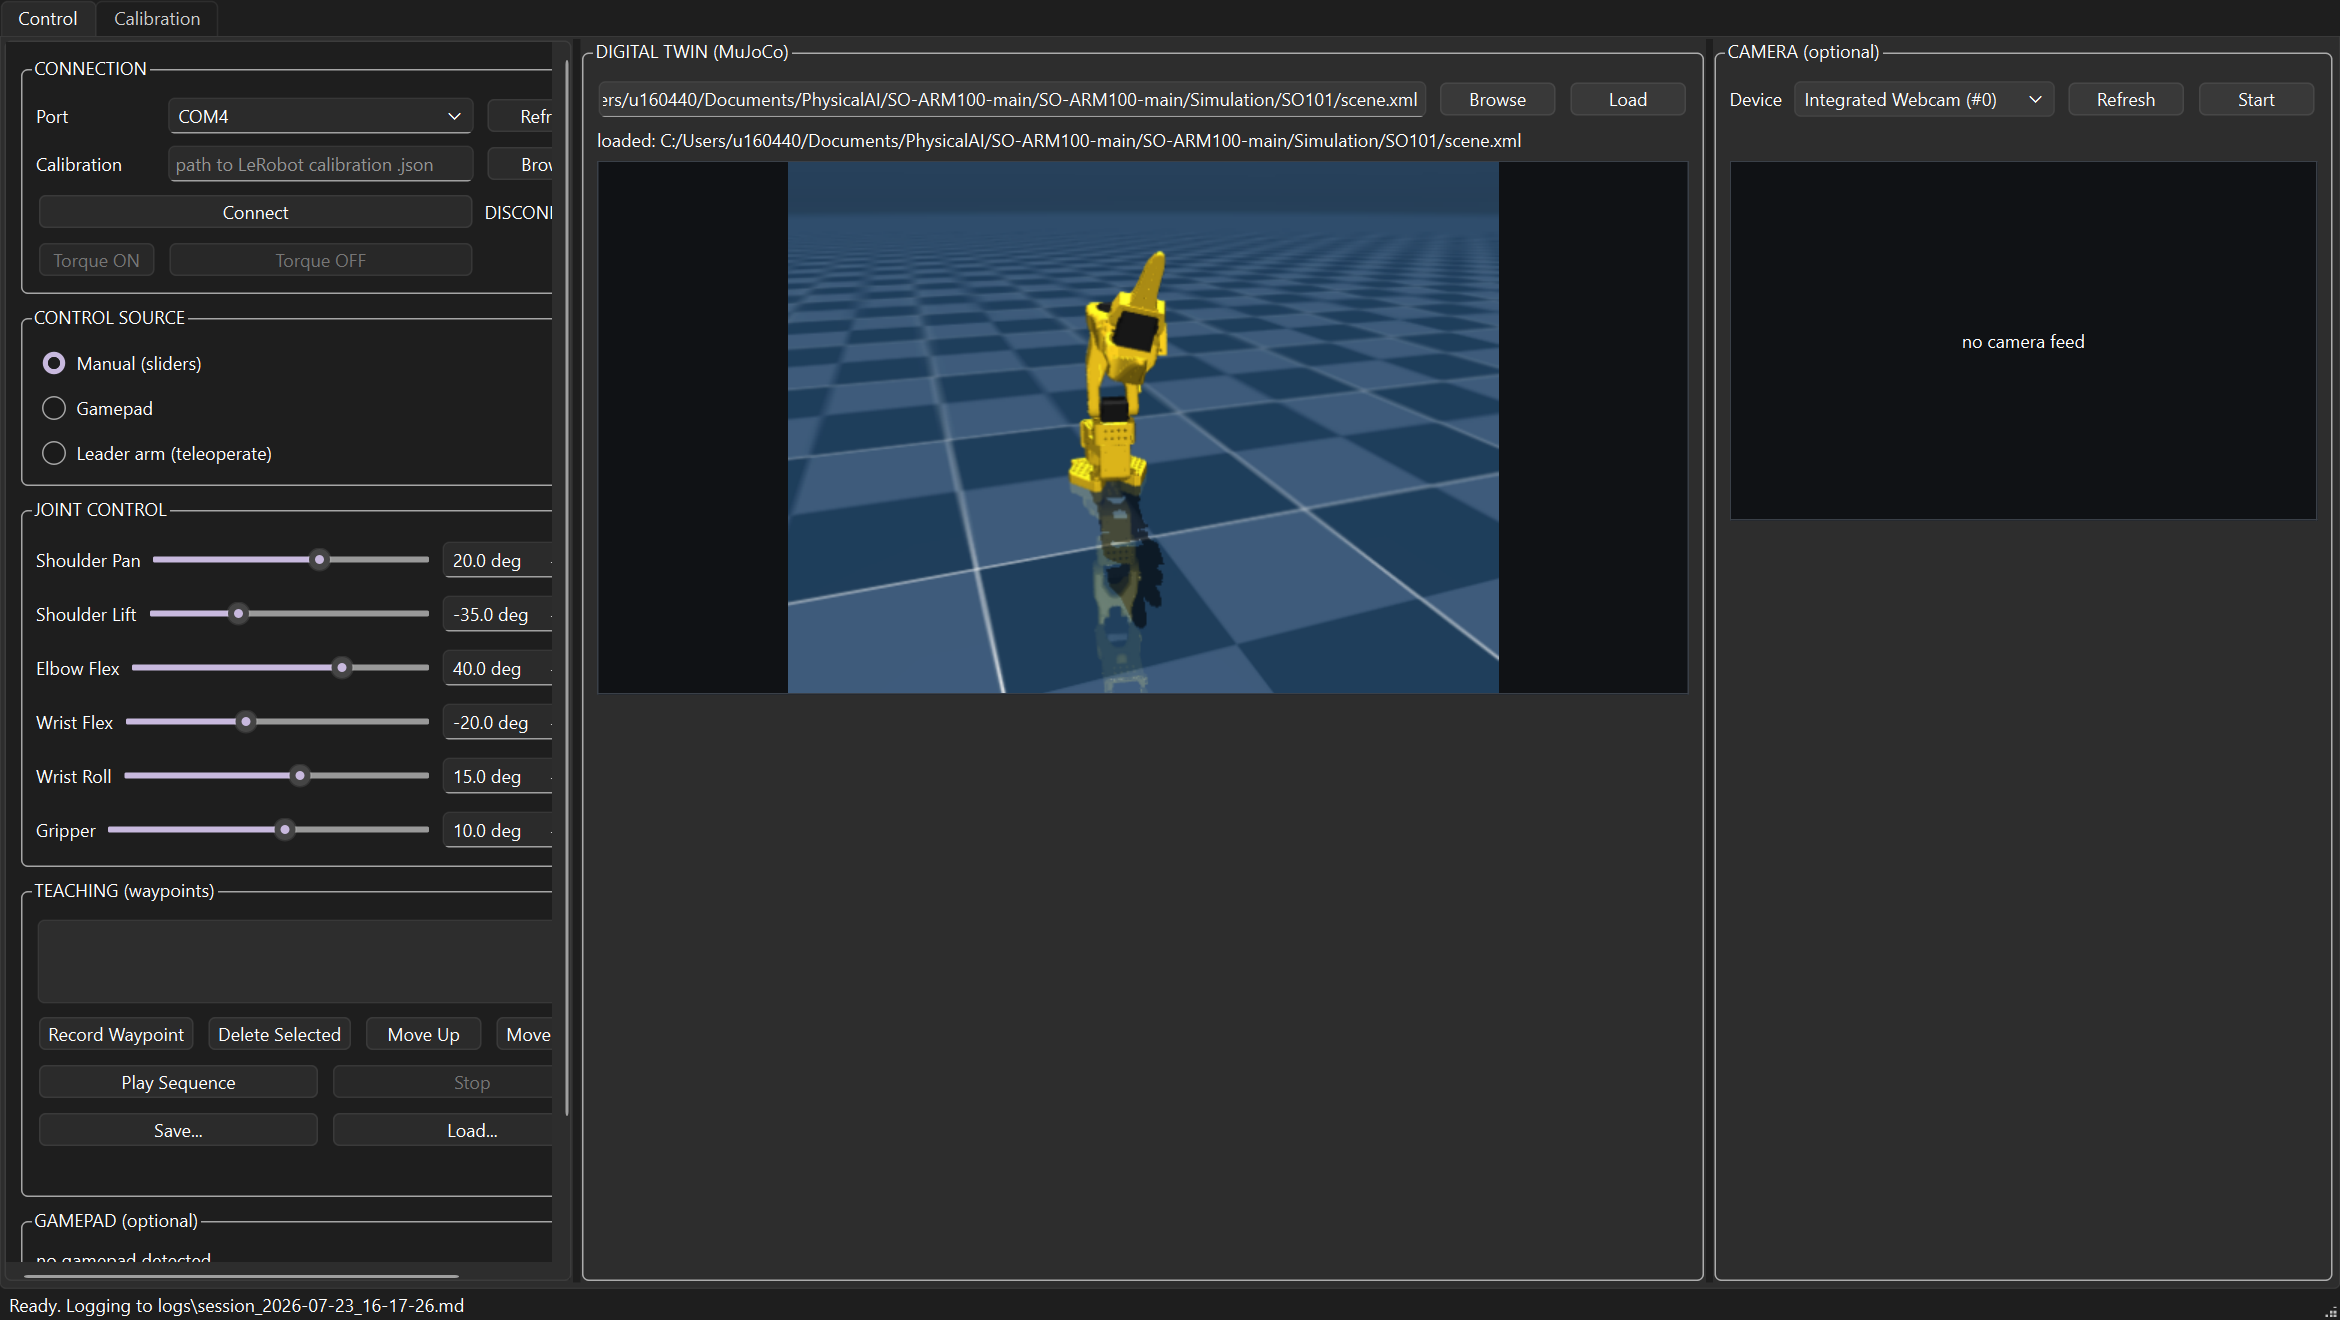
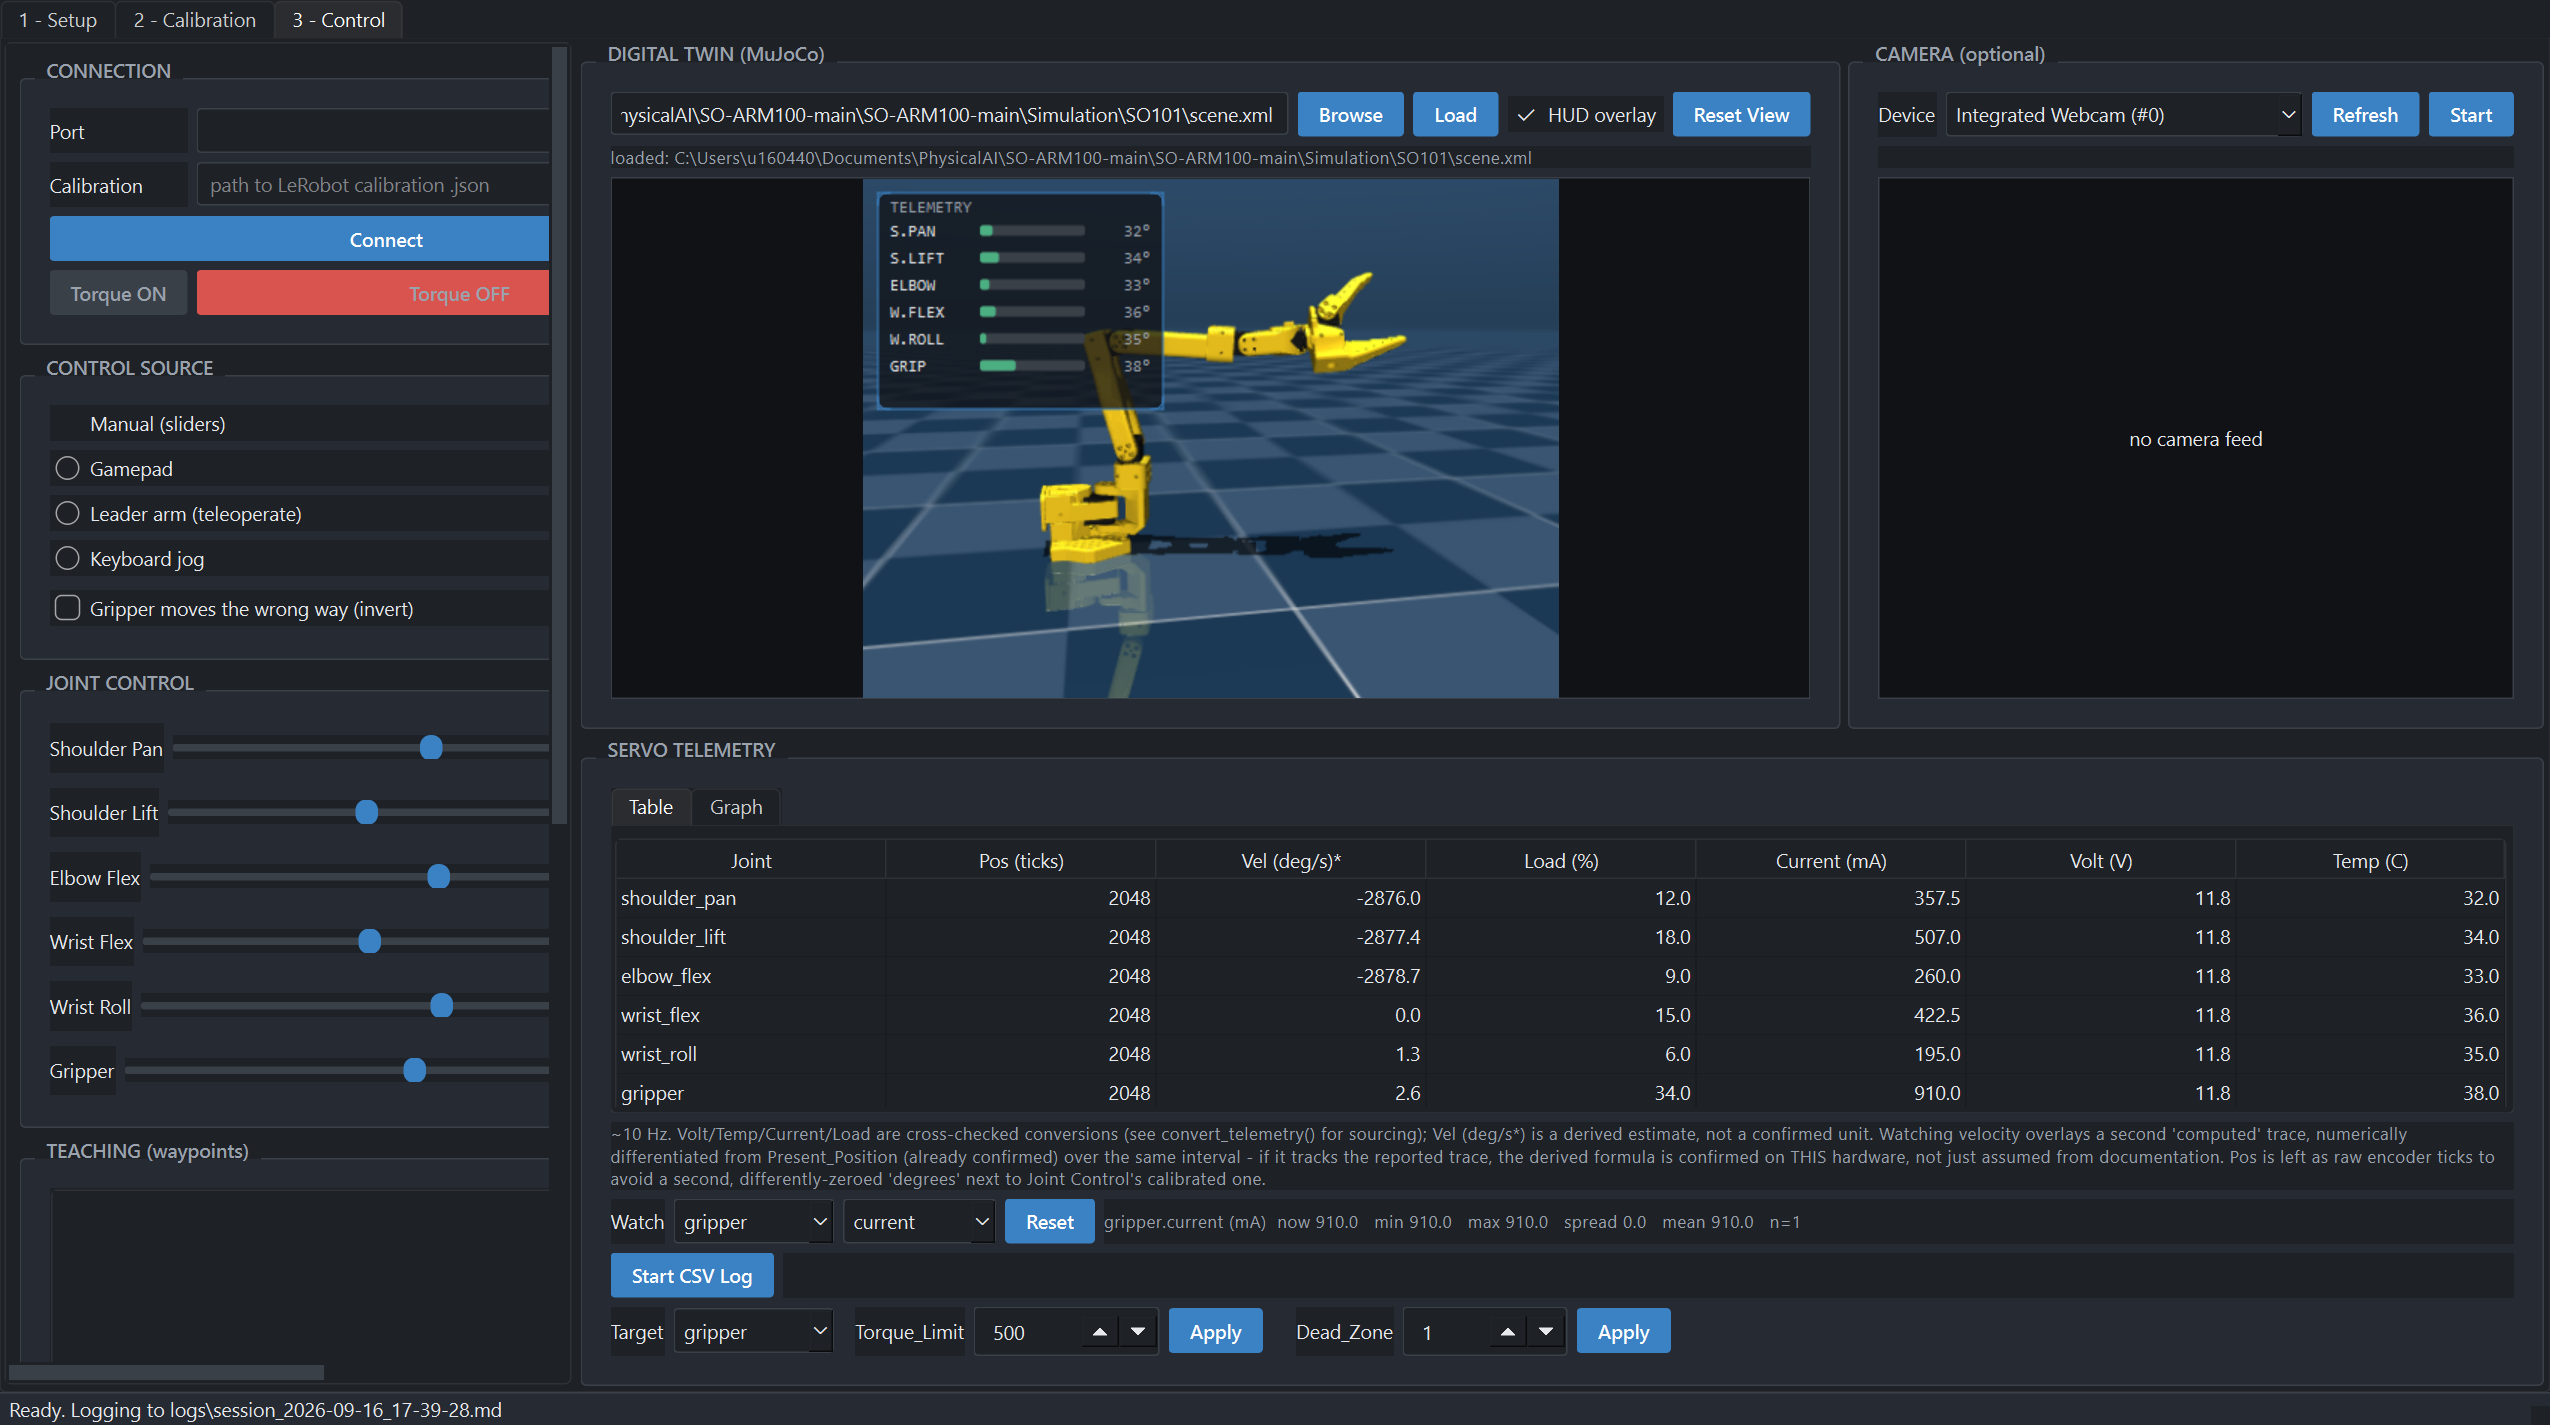
README: refresh screenshots and add a live demo GIF
The old docs/screenshot.png was from July - two tabs (Control/Calibration),
no Setup tab, no HUD, no telemetry panel visible. None of it matched what
the app actually looks like anymore.

- docs/screenshot.png: Control tab, current 3-tab layout, MuJoCo camera
  orbited to a three-quarter angle, HUD overlay on, servo telemetry table
  populated with plausible per-joint values.
- docs/screenshot_setup.png: the Setup tab, since the README's own 'three
  tabs, in order' section starts there but had no image for it.
- docs/demo.gif: 60-frame capture of a scripted joint sweep (staggered
  per-joint sine waves) while slowly orbiting the twin's camera, with the
  HUD and Servo Telemetry table updating from the same fake telemetry each
  frame - drives the exact same current_positions/_on_telemetry_updated
  path a real connected arm would, just fed synthetic data instead of a
  RobotWorker.

No hardware connected for either - both are explicitly captioned as such.

diff --git a/README.md b/README.md
@@ -16,12 +16,21 @@ a lot of yak-shaving between a beginner and their first taste of physical AI.
 This app collapses it into three tabs you work through in order, with no
 `lerobot` dependency at all.
 
-![Control tab with the MuJoCo digital twin loaded](docs/screenshot.png)
+![Control tab with the MuJoCo digital twin loaded, HUD overlay on, servo telemetry live](docs/screenshot.png)
 
 *Control tab, read left to right: narrow control column (connection, control
-source, joint sliders, teaching), Digital Twin as the centrepiece, Camera feed
-beside it for comparison. No hardware connected in this shot — the sliders and
-twin are posed manually to show the layout.*
+source, joint sliders, teaching), Digital Twin as the centrepiece — with a
+live telemetry HUD painted directly on the render and a mouse-orbitable
+camera — Camera feed beside it for comparison, Servo Telemetry underneath. No
+hardware connected in this shot; the pose and telemetry are simulated to show
+the layout.*
+
+![Demo: driving the digital twin through a joint sweep while orbiting the camera, with the HUD and telemetry table updating live](docs/demo.gif)
+
+*The twin, HUD, joint sliders and telemetry table all reflect the same
+`current_positions`/telemetry state in real time — this is a scripted pose
+sweep for the demo, not a recording of real hardware, but it exercises the
+exact same code path a live arm drives through `RobotWorker`.*
 
 ---
 
@@ -55,6 +64,8 @@ each stage is actually for.
 ## The three tabs, in the order you use them
 
 ### 1 · Setup — give each servo an ID
+
+![Setup tab: bus scan, arm status checklist, guarded id assignment](docs/screenshot_setup.png)
 
 Every STS3215 leaves the factory answering to **id 1**. Six of them on one bus
 are electrically fine but logically identical: a read addressed to id 1 gets
@@ -107,7 +118,12 @@ Plus:
 
 - **Digital twin** — a MuJoCo render mirroring the live pose, whichever source
   is driving. Runs on its own thread so a slow render never lags the control
-  loop.
+  loop. **Mouse-orbitable**: left-drag to orbit, right-drag (or Shift+left) to
+  pan, scroll to zoom, double-click or the Reset View button to return to the
+  default pose — the same `mjv_moveCamera` MuJoCo's own viewer uses, so the
+  feel matches it. A **telemetry HUD** (load/temperature bars per joint) can
+  be painted directly on the render, toggled independently of the Table/Graph
+  tabs below.
 - **Camera panel** — any USB webcam via OpenCV, picked by *name* rather than a
   bare index. Handy for comparing the twin against the real arm side by side.
 - **Teaching (waypoints)** — record the current pose however it got there
